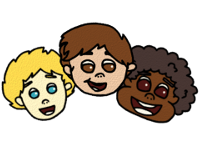
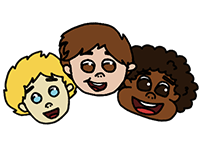
tristeza2
alteração das imagens correspondentes à tristeza

Changed region(s): [[0.0, 0.1867, 1.0, 0.8533], [0.42, 0.1333, 0.57, 0.1867], [0.33, 0.16, 0.42, 0.2133]]

diff --git a/app/arco-iris-das-emocoes/www/tristeza/5a.html b/app/arco-iris-das-emocoes/www/tristeza/5a.html
@@ -90,7 +90,7 @@
 			<div class="col-sm-4">
 			<div class="well well-sm">
 		          <a href="5a2.html" class="center-block btn btn-raised btn-lg btn-default">
-  		          	<img src="alegria_menino_caras.png" class="center-block img-responsive" alt="">
+  		          	<img src="tristeza_menino_caras.png" class="center-block img-responsive" alt="">
             		<span>Caras</span>
           		</a>
 			</div>

diff --git a/app/arco-iris-das-emocoes/www/tristeza/5a2.html b/app/arco-iris-das-emocoes/www/tristeza/5a2.html
@@ -75,7 +75,7 @@
 				</div>
 			<div class="col-sm-8">
 
-					<img src="caras_alegria.png" class="center-block index-jpg img-responsive" alt="">
+					<img src="caras_tristeza.png" class="center-block index-jpg img-responsive" alt="">
 
 <p style="font-size: 2em">Quando estamos alegres na nossa cara aparece um sorriso de orelha a orelha!</p>
 
